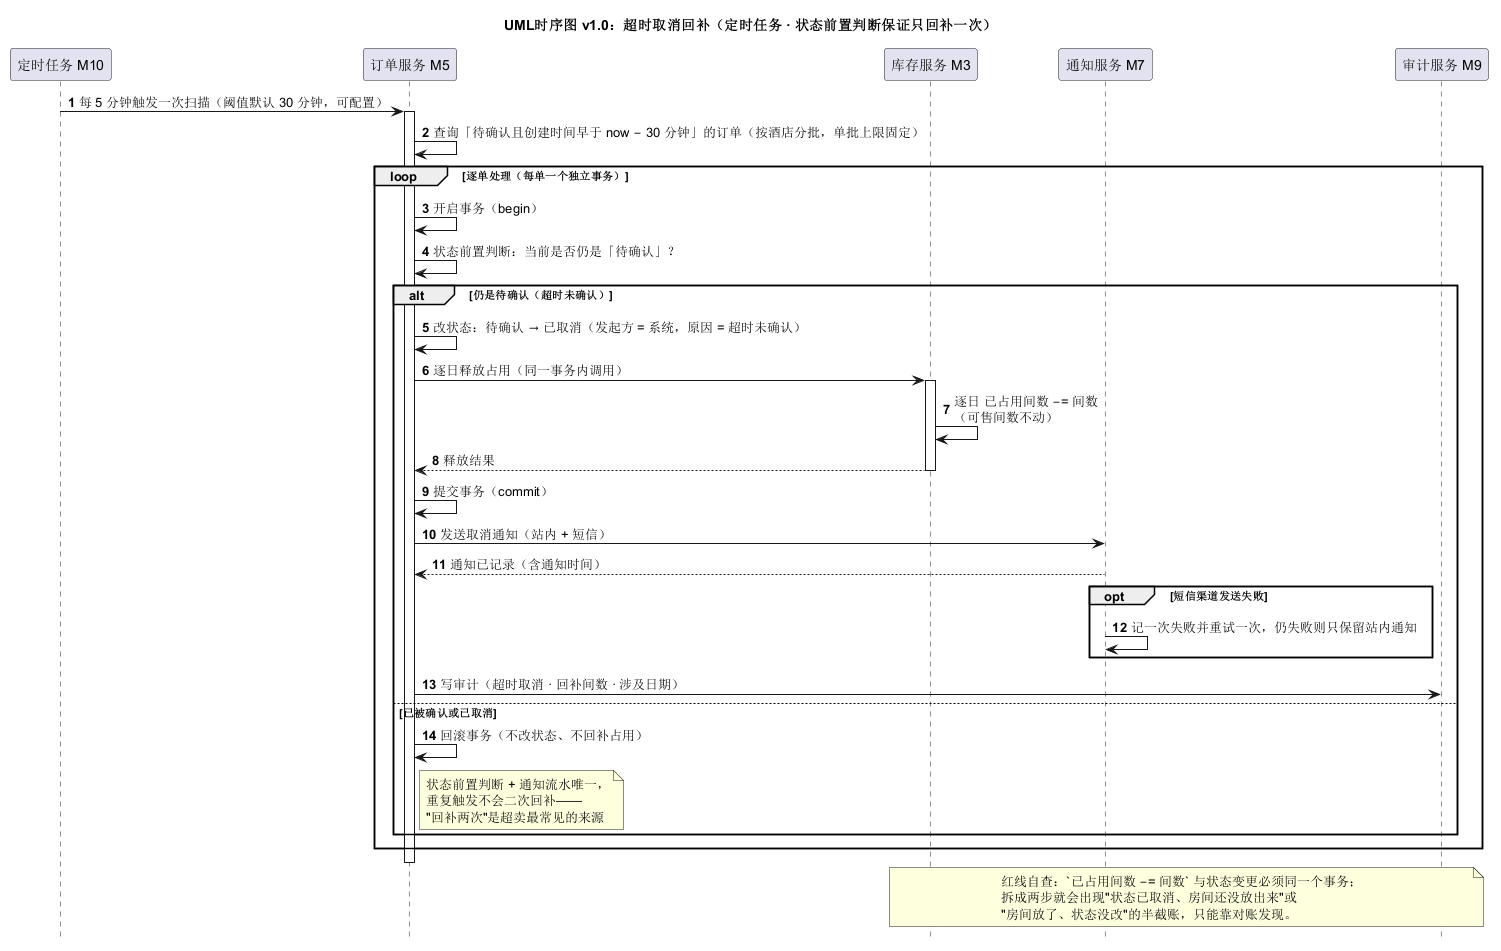
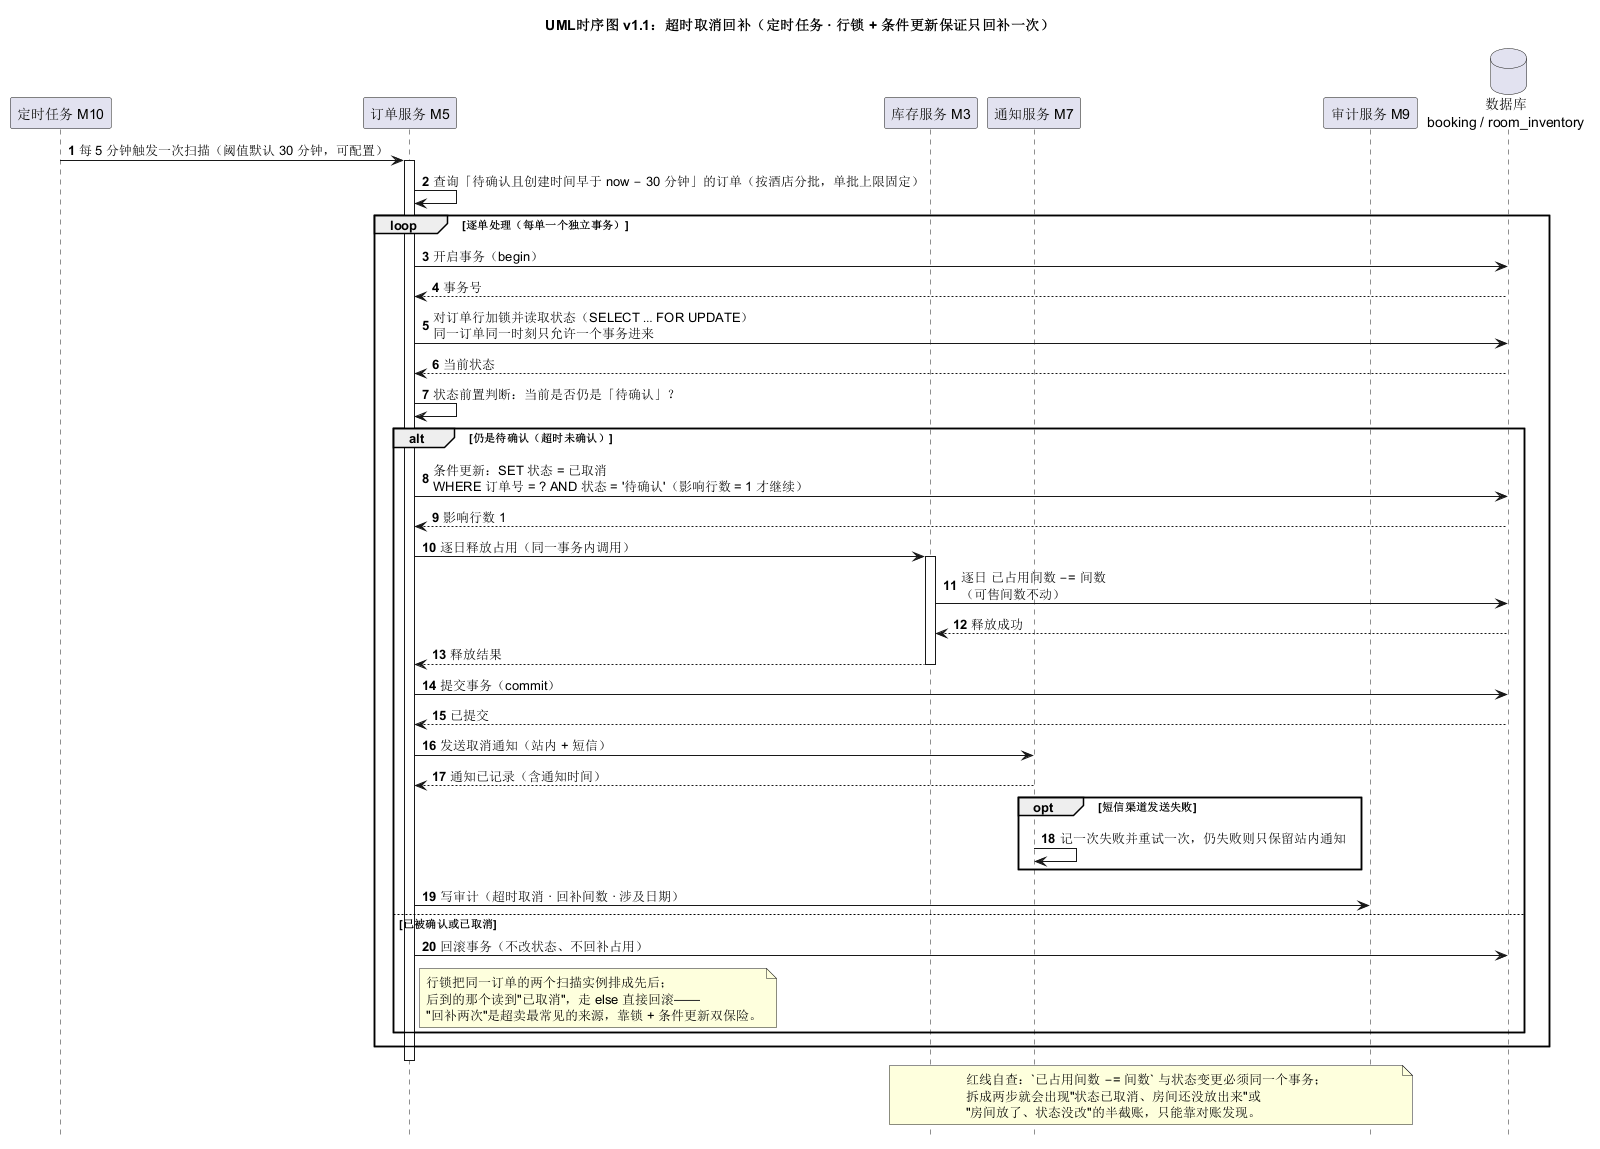
[S4-fix] 交互图两处口径打架：重复预订校验移进事务、超时取消补订单行锁
复核另一执行方提交的 S4（ce3cca1）时发现两处真实建模缺陷，均已改图并加守门判据：

1) 下单锁库存时序图：原图把「重复预订校验」画在 开启事务 之前，与 02 §5 事务范围
   （重复校验 + 逐日占用 + 建单 + 幂等键）、以及图内自己的 begin 说明相互矛盾；
   并发下事务外查重会让两个请求都通过。改为「事务外预检（尽早拒绝，不加锁）
   → 开启事务 → 逐行加锁 → 锁内复核重叠单（判据）」，版本升 v1.1。

2) 超时取消回补时序图：原图只有 M5 自调用「状态前置判断」，没有数据库生命线、
   没有订单行锁或条件更新，两个扫描实例并发会双回补（超卖最常见来源）。
   重写为 v1.1：补 database 生命线 + SELECT … FOR UPDATE + 条件更新
   （SET 状态=已取消 WHERE 订单号=? AND 状态='待确认'，影响行数=1 才继续），
   释放与状态变更同事务，else 分支回滚并注明「锁 + 条件更新双保险」。

同步：
- 02 §4 链路一改为「预检 → 开启事务 → 行锁 → 锁内复核」
- check.py 增两条守门判据（锁内复核在 begin 之后；行锁与条件更新落在 begin..commit）
- 阶段卡 §5 与 5.1 标签表、执行方案 Q 表登记 S4 复核

验证：check.py --stage 1/2/3/4 = 50/50、29/29、20/20、19/19 PASS；
负向测试 2 例（删锁内复核、删行锁与条件更新）均被抓。

diff --git a/exp2/验收/check.py b/exp2/验收/check.py
@@ -699,6 +699,28 @@ def s4_interaction() -> None:
                "消息中无状态前置判断")
         record(stage, "超时时序图 有回滚分支（已被确认或已取消）", "回滚" in body, "消息中无回滚")
 
+    # 2026-11-12 补两条守门：口径卡与 02 §5 都要求「重复校验在事务内」「超时取消用订单行锁」，
+    # 图上画到事务外、或干脆没画锁，两条口径就永远对不上。
+    p = UML_DIR / "UML时序图-下单锁库存.puml"
+    if p.exists():
+        msgs = messages(read(p))
+        ib = first(msgs, "开启事务")
+        il = next((i for i, s in enumerate(msgs) if "锁内复核" in s and "重叠" in s), -1)
+        ok = ib >= 0 and il > ib
+        record(stage, "下单时序图 重复预订校验落在事务内（锁内复核在 begin 之后）", ok,
+               f"位置 begin={ib} 锁内复核={il}" if not ok else "")
+
+    p = UML_DIR / "UML时序图-超时取消.puml"
+    if p.exists():
+        msgs = messages(read(p))
+        ib = first(msgs, "开启事务")
+        ic = first(msgs, "提交事务")
+        il = next((i for i, s in enumerate(msgs) if "FOR UPDATE" in s.upper()), -1)
+        iu = next((i for i, s in enumerate(msgs) if "WHERE" in s and "影响行数" in s), -1)
+        ok = ib >= 0 and il > ib and iu > il and ic > iu
+        record(stage, "超时时序图 订单行锁 + 条件更新（且落在 begin 与 commit 之间）", ok,
+               f"位置 begin={ib} 行锁={il} 条件更新={iu} commit={ic}" if not ok else "")
+
 
 def s5_ui_customer() -> None:
     stage = "S5"

diff --git a/exp2/实验二_阶段与验收.md b/exp2/实验二_阶段与验收.md
@@ -146,6 +146,7 @@
 | S3 | **完成（stage-3b）** | 三张行为图：`UML/UML用例图.puml`（4 类参与者 + 21 个用例（含 UC21 判定取消政策），每个用例带 REQ 号，覆盖 25 条 REQ）、`UML/UML状态图.puml`（6 状态 + 8 条转换边 + 6 种状态对 + 5 条禁止转换注释 + 8 条边的拆合判据）、`UML/UML活动图.puml`（3 条泳道 + 4 个判定 + 锁后复核 + 回滚 + 幂等键查重与同事务写入） | `check.py --stage 3` = 20/20 PASS；标签 `stage-3` / `stage-3b`；负向测试 3 例全部被抓（画非法边 / 删 T8 / 删泳道） |
 | S3→S4 门禁 | **完成** | R-09 幂等键改为「事务内与订单同写、主键冲突回滚并返回原单」（活动图 / `02 §4` `§5` / 执行方案 E#7 三处对齐）；D-13 去掉图内全部字面 `**`（6 张图）并放宽 `check.py` 该条判据；D-14 用例图 include 边文字改短、说明挪进注释 | `check.py --stage 1/2/3` = 50/50、29/29、20/20 |
 | S4 | **完成（stage-4）** | 两张交互图：`UML/UML时序图-下单锁库存.puml`（5 条生命线、`opt` 幂等命中 + `alt` 并发抢最后一间、事务范围与红线自查标在图上）、`UML/UML时序图-超时取消.puml`（5 条生命线、`loop` 逐单 + `alt` 超时/已被确认 + `opt` 短信失败、状态前置判断与回滚分支） | `check.py --stage 4` = 17/17 PASS；标签 `stage-4`；红线项「扣库存画在事务外」已由脚本按行序校验 |
+| S4 复核 | **完成（stage-4b）** | 复核发现两处口径打架并改图：① 下单时序图原把「重复预订校验」画在事务外，与 `02 §5` 事务范围、以及图内自己的 begin 说明都不一致 → 拆成「事务外预检（尽早拒绝）+ 锁内复核（判据）」；② 超时时序图原只有 M5 自调用「状态前置判断」、没有订单行锁 → 补数据库生命线、`SELECT … FOR UPDATE` 与条件更新（影响行数 = 1 才继续）。`02 §4` 链路一同步改为「预检 → 开启事务 → 行锁 → 锁内复核」 | `check.py --stage 4` = **19/19** PASS（新增两条守门判据）；负向测试 2 例全部被抓（删锁内复核 / 删行锁与条件更新）；标签 `stage-4b` |
 | S5–S9 | 未开始 | — | — |
 
 ### 5.1 标签与提交对照（复验 D-05：标签必须能对上提交号）
@@ -163,6 +164,7 @@
 | `stage-3b` | `6e8cb4b` | S3 返工：21 个用例（补 UC21 判定取消政策）、8 条边的拆合判据、活动图加锁与读取改顺序（20/20） |
 | `stage-3c` | `c751abd` | S3→S4 门禁：R-09 幂等键改为同事务写入、D-13 去掉图内字面 `**`、D-14 用例图 include 文字改短（1/2/3 = 50/50、29/29、20/20） |
 | `stage-4` | 见 `git show stage-4 --stat` | S4 交互图两张：下单锁库存 / 超时取消回补（17/17），红线由脚本按行序校验 |
+| `stage-4b` | 见 `git show stage-4b --stat` | S4 复核：重复预订校验移进事务（预检 + 锁内复核）、超时取消补订单行锁与条件更新、`02 §4` 同步（19/19） |
 
 > 规则：标签只增不改。若某标签所指版本被后续检查证明不合格，**不移动旧标签**，而是新开 `stage-Nx` 标注新的合格版本，并在上表追加一行——移动已推送的标签会让评审拿到的提交号和报告里写的对不上。
 

diff --git a/exp2/实验二_执行方案.md b/exp2/实验二_执行方案.md
@@ -419,4 +419,7 @@ exp2/
 | 2026-11-12 | **S2 结构图**：类图（13 类型 + 3 服务 + 3 仓储接口）、包图（四层 + M1–M10 + 唯一一条依赖倒置箭头）、组件图（10 组件 + 20 接口 + S/A/T/R）；`验收/check.py` 的 S2 判据按阶段卡补实（`class_body()`、RoomInventory 反推字段检查） | `check.py --stage 2` = 23/23 PASS；标签 `stage-2` |
 | 2026-11-12 | **S2 返工**（评审判 3 项中级 + 4 项低级）：R2-01 删掉独立 `Role` 类、角色改为 `UserAccount.角色` 枚举字段（13 个类型回到 12 表 + BookingStatus 自洽）；R2-02 补 `Booking.酒店ID` 与 `Booking—Hotel 属于`；R2-03 终态注释改为"已退房/已取消/未入住，已入住仍可走 T8"；R2-04 节假日改为平台级字典（去掉 Hotel 归属）；R2-05 补 `I21 趋势与导出`；R2-06 版本统一 v1.1；R2-07 组件图加注"10 业务组件 + 2 支撑件"；`check.py` 增 6 项（实体包恰好 13、无 Role 类、Booking.酒店ID、Booking—Hotel 边、终态注释、逐组件接口数） | `check.py --stage 2` = 29/29 PASS；标签 `stage-2b`；4 个负向用例全部被抓 |
 | 2026-11-12 | **S3 行为图**：`UML用例图`（4 类参与者、21 个用例各带 REQ 号、覆盖 25 条 REQ；2 条 include + 1 条 extend 画成边，另 2 条关系写在注释里说明为什么省略）、`UML状态图`（6 状态、T1–T8 八条边、6 种状态对、5 条禁止转换与 409 后果）、`UML活动图`（3 条泳道、4 个判定、fork 并发 + 锁后复核 + 回滚节点）；`check.py` 的 S3 判据由 4 项补到 20 项 | `check.py --stage 3` = 20/20 PASS；标签 `stage-3`；3 个负向用例全部被抓（画非法边 / 删 T8 / 删泳道） |
-| 待办 | S4–S9：交互图 → UI → 报告 → AI 章节 → 打包 | 见 `实验二_阶段与验收.md` |
+| 2026-11-12 | **S3 返工 + S3→S4 门禁**：R-05~R-08 修订（21 个用例补 UC21 判定取消政策、8 条边的拆合判据、活动图加锁与读取改顺序）、R-09 幂等键改为事务内与订单同写（活动图 / `02 §4`§5 / E#7 三处对齐）、D-13 去掉图内字面 `**`、D-14 用例图 include 文字改短 | 标签 `stage-3b`、`stage-3c`；`--stage 1/2/3` = 50/50、29/29、20/20 |
+| 2026-11-12 | **S4 交互图**：`UML时序图-下单锁库存`（5 生命线、`opt` 幂等命中、`alt` 抢最后一间、事务范围与红线自查）、`UML时序图-超时取消`（`loop` 逐单、`alt` 超时/已被确认、`opt` 短信失败、回滚分支） | `check.py --stage 4` = 17/17 PASS；标签 `stage-4` |
+| 2026-11-12 | **S4 复核**：两处口径打架已改图——① 重复预订校验从事务外移到「锁内复核」（与 `02 §5` 事务范围一致，避免并发下两单都过查重）；② 超时取消补数据库生命线 + `SELECT … FOR UPDATE` + 条件更新（影响行数 = 1 才继续），不再只靠"状态前置判断"口头幂等；`02 §4` 链路一同步改「预检 → 开启事务 → 行锁 → 锁内复核」；`check.py` 增两条守门判据 | `check.py --stage 4` = 19/19 PASS；2 个负向用例被抓；标签 `stage-4b` |
+| 待办 | S5–S9：UI（17 张）→ 报告 → AI 章节 → 打包 | 见 `实验二_阶段与验收.md` |
